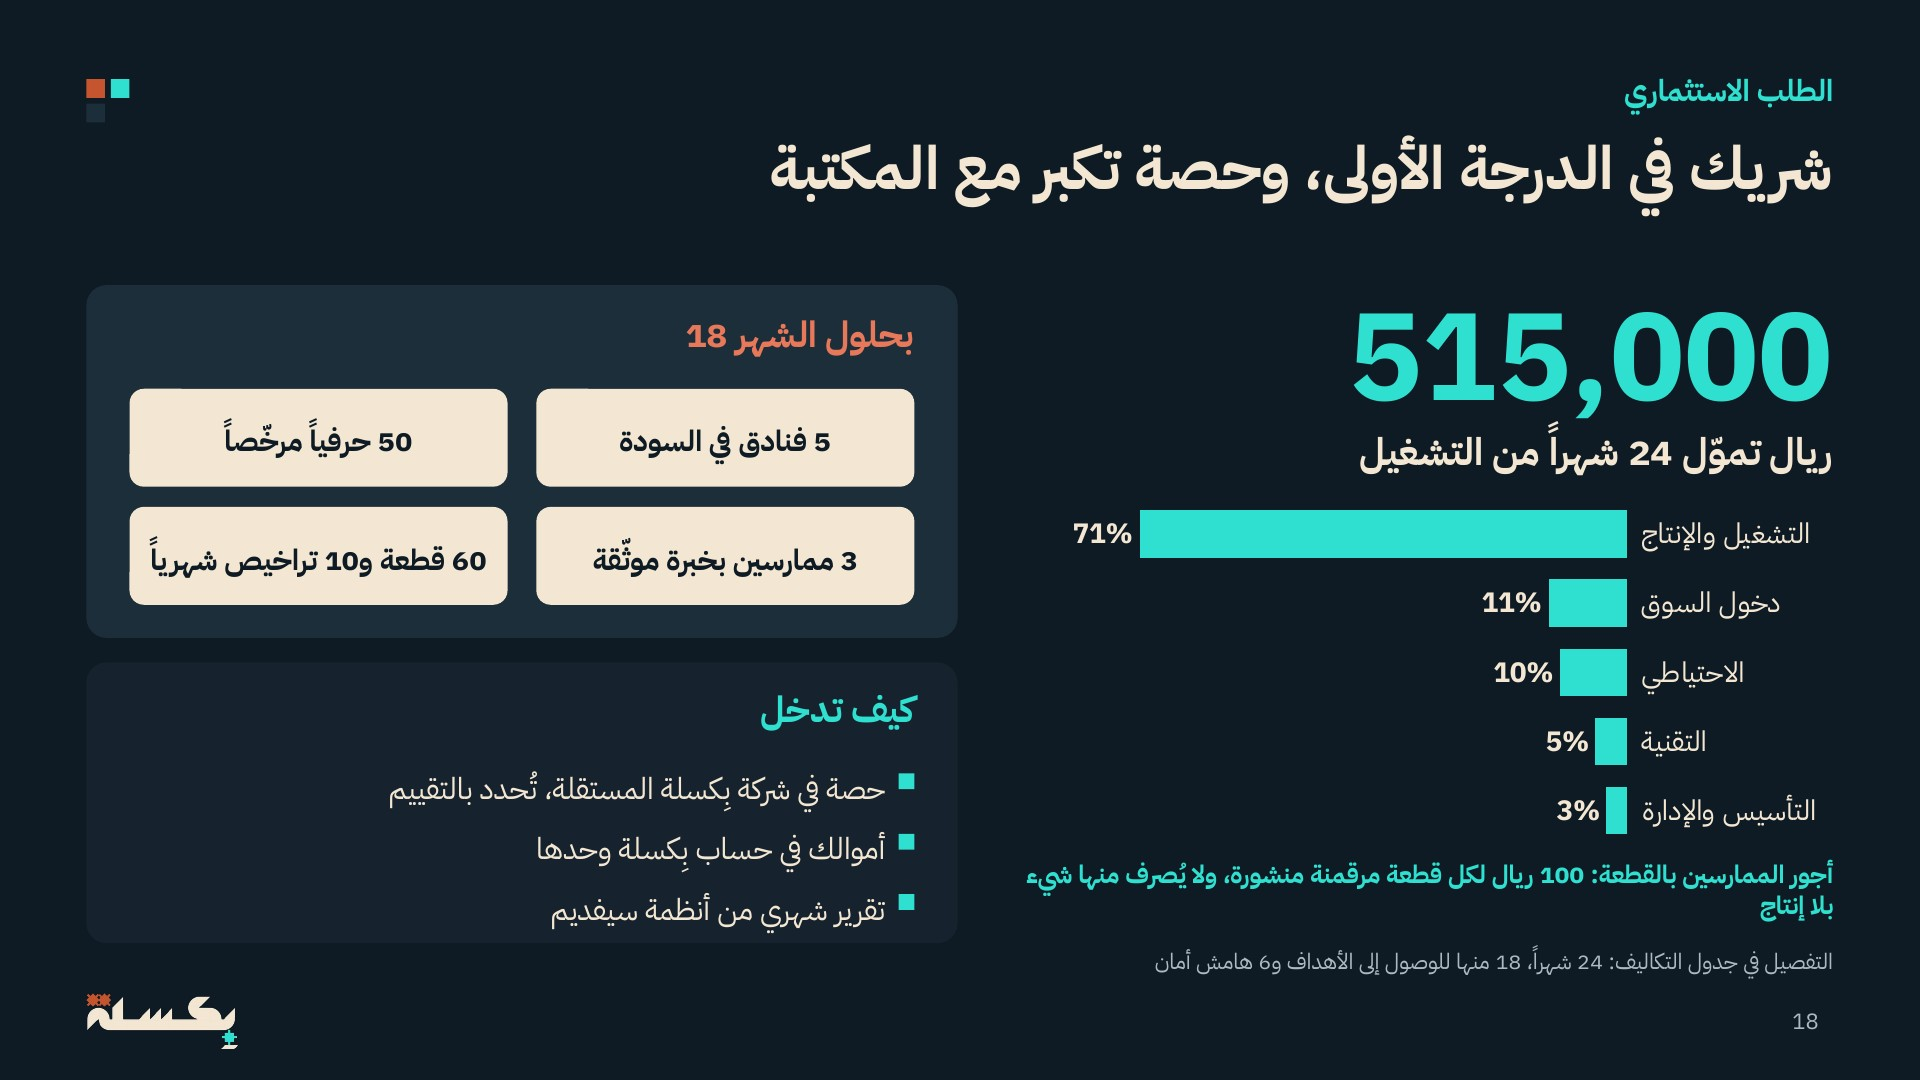
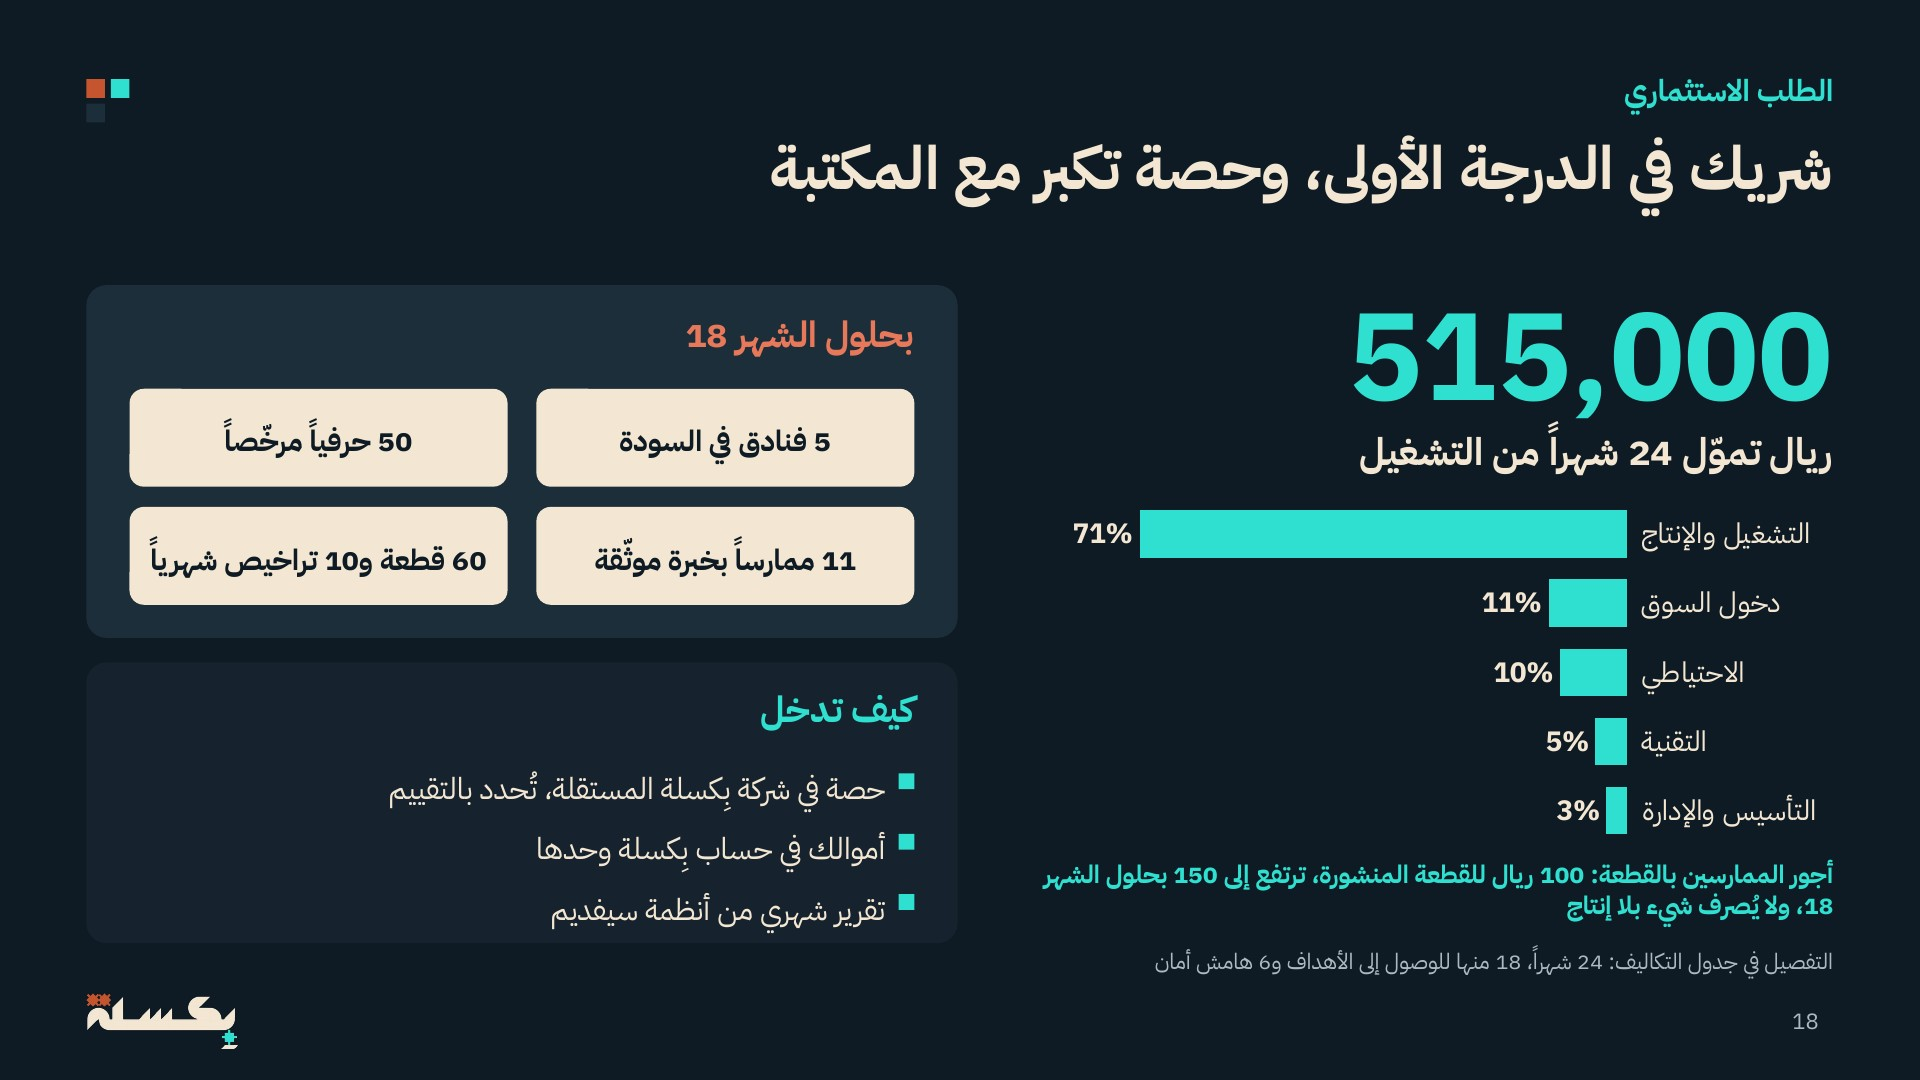
Add files via upload

Changed region(s): [[0.5312, 0.7944, 0.7812, 0.825], [0.3125, 0.4889, 0.4375, 0.55], [0.8125, 0.825, 0.9688, 0.8556]]

diff --git a/p-7k2m9x/index.html b/p-7k2m9x/index.html
@@ -70,7 +70,19 @@ button:focus-visible{outline:3px solid var(--scan);outline-offset:2px}
 #lb .sw button{height:56px;padding:0 26px;border-radius:28px;border:2px solid var(--line);background:transparent;color:var(--sand);font:600 24px P;cursor:pointer}
 #lb .sw button.act{background:var(--clay);border-color:var(--clay);color:#fff}
 #lb .cap{position:absolute;top:40px;right:60px;font-size:30px;font-weight:600;color:var(--mute)}
-#intro{position:absolute;inset:0;z-index:40;background:#0F1B24;display:none}#intro.on{display:block}#intro video{width:100%;height:100%;display:block}
+#intro{position:absolute;inset:0;z-index:40;background:#0F1B24;display:none}#intro.on{display:block}#intro video{width:100%;height:100%;display:block;cursor:pointer}
+#ip{position:absolute;left:50%;top:50%;width:150px;height:150px;margin:-75px 0 0 -75px;border-radius:50%;border:0;background:rgba(243,231,211,.92);color:#0F1B24;font-size:60px;cursor:pointer;display:none;padding-left:12px}
+#intro.paused #ip{display:block}
+#ic{position:absolute;left:60px;right:60px;bottom:26px;direction:rtl;opacity:0;transition:opacity .2s;display:flex;flex-direction:column;gap:12px}
+#intro.ui #ic,#intro.paused #ic,#ic:focus-within{opacity:1}
+#ich,#icr{display:flex;gap:10px;align-items:center}
+#ic button{height:46px;padding:0 18px;border-radius:23px;border:1.5px solid rgba(160,170,180,.5);background:rgba(15,27,36,.86);color:#F3E7D3;font:600 20px P;cursor:pointer;white-space:nowrap}
+#ic button.act{background:#0B7F76;border-color:#0B7F76}
+#ich button{flex:1;height:40px;font-size:18px;padding:0 8px}
+#isk{flex:1;direction:ltr;accent-color:#2FE0D0;height:6px}
+#itm{font:600 20px P;color:#AEB8C0;direction:ltr;min-width:96px;text-align:center}
+#laser{position:fixed;left:0;top:0;width:22px;height:22px;margin:-11px 0 0 -11px;border-radius:50%;background:#FF3B30;box-shadow:0 0 0 6px rgba(255,59,48,.28),0 0 26px 8px rgba(255,59,48,.55);pointer-events:none;z-index:99;display:none}
+body.laser #laser{display:block}body.laser,body.laser *{cursor:none!important}
 </style>
 </head>
 <body>
@@ -138,8 +150,11 @@ button:focus-visible{outline:3px solid var(--scan);outline-offset:2px}
   <video id="gv2" muted loop playsinline controls></video>
   <div class="sw" id="lbs"><button type="button" data-clip="v/market-wide.mp4">لقطة السوق</button><button type="button" data-clip="v/market-close.mp4">لقطة قريبة</button></div>
 </div>
-<div id="intro"><video id="iv" src="v/intro.mp4" muted playsinline preload="auto"></video></div>
-<div id="ui"><button id="pv" type="button" aria-label="السابق">‹</button><span id="cnt"></span><button id="nx" type="button" aria-label="التالي">›</button><button id="mb" type="button">القائمة</button><button id="b3" type="button">المجسم</button><button id="bg" type="button">اللعبة</button><span id="tm" style="visibility:hidden">0:00</span></div>
+<div id="intro"><video id="iv" src="v/intro.mp4" muted playsinline preload="auto"></video>
+<button id="ip" type="button" aria-label="تشغيل">▶</button>
+<div id="ic"><div id="ich"></div><div id="icr"><button id="ipp" type="button">إيقاف</button><button id="irs" type="button">من البداية</button><input id="isk" type="range" min="0" max="50" step="0.1" value="0" aria-label="موضع المشهد"><span id="itm">0:00</span><button id="iau" type="button">توقف بعد كل مشهد</button><button id="inx" type="button">إلى الشرائح ›</button></div></div></div>
+<div id="laser"></div>
+<div id="ui"><button id="pv" type="button" aria-label="السابق">‹</button><span id="cnt"></span><button id="nx" type="button" aria-label="التالي">›</button><button id="mb" type="button">القائمة</button><button id="b3" type="button">المجسم</button><button id="bg" type="button">اللعبة</button><button id="bi" type="button">القصة</button><button id="bx" type="button">مؤشر</button><span id="tm" style="visibility:hidden">0:00</span></div>
 </div>
 <script>
 (function(){
@@ -155,11 +170,24 @@ button:focus-visible{outline:3px solid var(--scan);outline-offset:2px}
     [].forEach.call($('menu').children,function(b,n){b.classList.toggle('cur',n===i);});
     try{history.replaceState(null,'','#'+(i+1));}catch(e){}
   }
-  function go(n){i=Math.max(0,Math.min(S.length-1,n));step=0;show();}
-  var IN=$('intro'), iv=$('iv'), played=false;
-  function intro(on){IN.classList.toggle('on',on);if(on){played=true;menu(false);iv.currentTime=0;iv.play().catch(function(){});}else iv.pause();}
-  function next(){if(t0===null)t0=Date.now();if(IN.classList.contains('on')){intro(false);go(1);return;}if(i===0&&!played&&!PRINT){intro(true);return;}if(step<steps(i)){step++;show();}else if(i<S.length-1)go(i+1);}
-  function prev(){if(IN.classList.contains('on')){intro(false);return;}if(step>0){step--;show();}else if(i>0){i--;step=steps(i);show();}}
+  function go(n){if(IN.classList.contains('on')){IN.classList.remove('on');iv.pause();}i=Math.max(0,Math.min(S.length-1,n));step=0;show();}
+  var IN=$('intro'), iv=$('iv'), stopMode=false, lastT=0;
+  var SC=[[0,'التجربة',7.0],[7.8,'البحث',15.2],[16.1,'القطعة',21.3],[22.2,'المكالمة',26.1],[26.8,'الأرقام',35.4],[36.2,'من الصورة إلى التجربة',44.8],[45.6,'الختام',50]];
+  function inOn(){return IN.classList.contains('on');}
+  function iplay(){iv.play().catch(function(){});}
+  function itoggle(){if(iv.ended){iv.currentTime=0;lastT=0;iplay();}else if(iv.paused)iplay();else iv.pause();}
+  function iseek(t){iv.currentTime=t;lastT=t;isync();}
+  function isync(){var t=iv.currentTime||0;IN.classList.toggle('paused',iv.paused&&!iv.ended);$('ipp').textContent=iv.paused?'تشغيل':'إيقاف';
+    if(document.activeElement!==$('isk'))$('isk').value=t;$('itm').textContent='0:'+('0'+Math.floor(t)).slice(-2)+' / 0:50';
+    var c=0;SC.forEach(function(x,n){if(t>=x[0]-.05)c=n;});[].forEach.call($('ich').children,function(b,n){b.classList.toggle('act',n===c);});}
+  SC.forEach(function(x,n){var b=document.createElement('button');b.type='button';b.textContent=(n+1)+'. '+x[1];b.onclick=function(){iseek(x[0]);iplay();};$('ich').appendChild(b);});
+  (function loop(){if(inOn()){var t=iv.currentTime;if(stopMode&&!iv.paused){for(var n=0;n<SC.length-1;n++){var q=SC[n][2];if(lastT<q&&t>=q){iv.pause();break;}}}lastT=t;isync();}requestAnimationFrame(loop);})();
+  iv.onclick=itoggle;$('ip').onclick=itoggle;$('ipp').onclick=itoggle;$('irs').onclick=function(){iseek(0);iplay();};
+  $('isk').oninput=function(){iseek(+this.value);};$('isk').onchange=function(){this.blur();};
+  $('iau').onclick=function(){stopMode=!stopMode;this.classList.toggle('act',stopMode);};$('inx').onclick=function(){next();};
+  function intro(on,play){IN.classList.toggle('on',on);if(on){menu(false);i=0;step=0;show();iv.currentTime=0;lastT=0;if(play)iplay();else iv.pause();isync();}else iv.pause();}
+  function next(){if(t0===null)t0=Date.now();if(inOn()){intro(false);go(1);return;}if(i===0&&!PRINT){intro(true,true);return;}if(step<steps(i)){step++;show();}else if(i<S.length-1)go(i+1);}
+  function prev(){if(inOn()){intro(false);return;}if(i===1&&step===0&&!PRINT){intro(true,false);return;}if(step>0){step--;show();}else if(i>0){i--;step=steps(i);show();}}
   function menu(on){$('menu').classList.toggle('on',on);}
   // turntable
   var N=60, IM=[], fr=0, auto=true;
@@ -186,12 +214,23 @@ button:focus-visible{outline:3px solid var(--scan);outline-offset:2px}
   [].forEach.call($('lbs').children,function(b){b.onclick=function(){setClip(b.dataset.clip);};});
   [].forEach.call(document.querySelectorAll('.gv'),function(v){v.onclick=function(){lb('game',v.getAttribute('src'));};});
   $('lbx').onclick=function(){lb(null);};$('b3').onclick=function(){lb('model');};$('bg').onclick=function(){lb('game');};
-  $('nx').onclick=next;$('pv').onclick=prev;$('mb').onclick=function(){menu(!$('menu').classList.contains('on'));};
+  $('bi').onclick=function(){intro(true,true);};$('bx').onclick=function(){document.body.classList.toggle('laser');};$('nx').onclick=next;$('pv').onclick=prev;$('mb').onclick=function(){menu(!$('menu').classList.contains('on'));};
   [].forEach.call($('menu').children,function(b){b.onclick=function(){menu(false);go(+b.dataset.go);};});
   addEventListener('keydown',function(e){
     var K=e.key, open=$('lb').classList.contains('on');
-    if(K==='i'||K==='I'||K==='ه'){intro(!IN.classList.contains('on'));return;}
-    if(K==='Escape'){if(IN.classList.contains('on')){intro(false);return;}if(open)lb(null);else menu(false);return;}
+    if(K==='x'||K==='X'||K==='ء'){document.body.classList.toggle('laser');return;}
+    if(K==='i'||K==='I'||K==='ه'){intro(!inOn(),true);return;}
+    if(inOn()){
+      if(K===' '||K==='k'||K==='K'){e.preventDefault();itoggle();}
+      else if(K==='r'||K==='R'||K==='ق'){iseek(0);iplay();}
+      else if(/^[1-7]$/.test(K)){iseek(SC[+K-1][0]);iplay();}
+      else if(K==='ArrowUp'){e.preventDefault();iseek(Math.max(0,iv.currentTime-3));}
+      else if(K==='ArrowDown'){e.preventDefault();iseek(Math.min(49.9,iv.currentTime+3));}
+      else if(K==='ArrowLeft'||K==='PageDown'||K==='Enter'){e.preventDefault();next();}
+      else if(K==='ArrowRight'||K==='PageUp'||K==='Backspace'||K==='Escape'){e.preventDefault();prev();}
+      else if(K==='f'||K==='F'||K==='ب'){if(document.fullscreenElement)document.exitFullscreen();else document.documentElement.requestFullscreen&&document.documentElement.requestFullscreen();}
+      return;}
+    if(K==='Escape'){if(open)lb(null);else menu(false);return;}
     if(K==='m'||K==='M'||K==='ة'){open?lb(null):lb('model');return;}
     if(K==='g'||K==='G'||K==='ل'){open?lb(null):lb('game');return;}
     if(open){if(K===' '){e.preventDefault();var v=$('gv2');if($('gv2').style.display!=='none'){v.paused?v.play():v.pause();}else auto=!auto;}return;}
@@ -209,7 +248,7 @@ button:focus-visible{outline:3px solid var(--scan);outline-offset:2px}
   for(var p=1;p<=19;p++){(new Image()).src='s/'+('0'+p).slice(-2)+'.jpg';}
   var h=parseInt(location.hash.slice(1),10);if(h>=1&&h<=S.length)i=h-1;
   window.__go=function(n){i=n;step=steps(n);show();paintAll();};window.__lb=lb;
-  var hid;addEventListener('mousemove',function(){$('ui').classList.add('on');clearTimeout(hid);hid=setTimeout(function(){$('ui').classList.remove('on');},1800);});
+  var hid;addEventListener('mousemove',function(e){$('laser').style.transform='translate('+e.clientX+'px,'+e.clientY+'px)';$('ui').classList.add('on');IN.classList.add('ui');clearTimeout(hid);hid=setTimeout(function(){$('ui').classList.remove('on');IN.classList.remove('ui');},1800);});
   show();
 })();
 </script>
